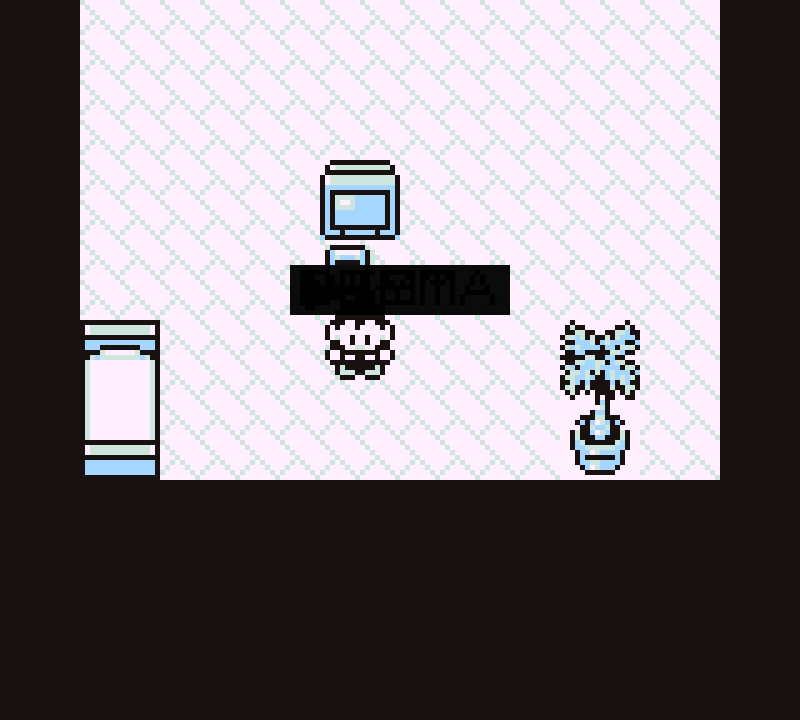
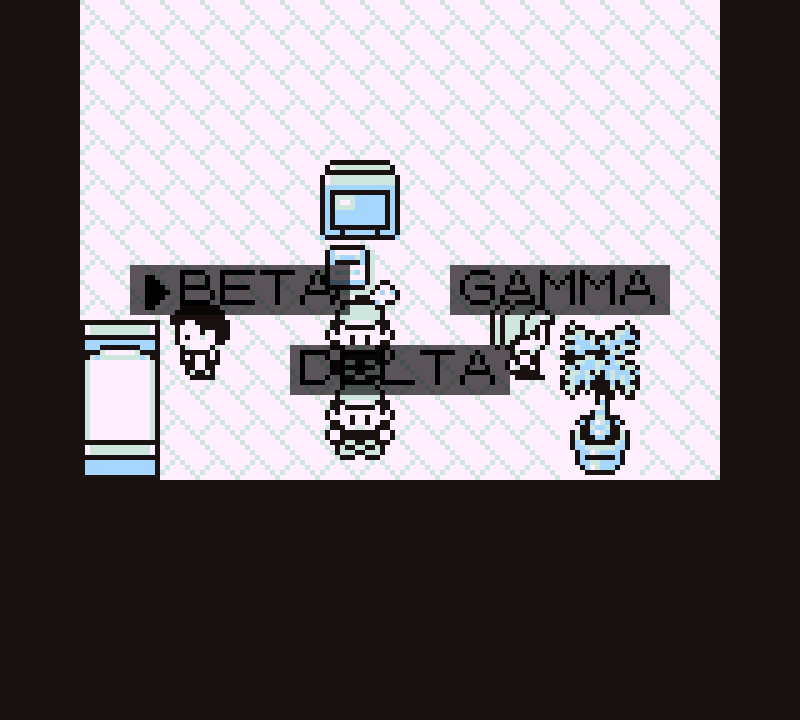
docs: bring the co-op README and its screenshots up to date
The README's RUN paragraph predated consent-run -- it now tells the split
truth (refused against trainers, partner-consent against another party, a
consented flee scored as the runners' loss) -- and two new paragraphs cover
the blackout on loss and the 60-second turn clock.

Both weak screenshots are recaptured, and the driver is fixed so they stay
good: party-ask.png used to be a box reading, in its entirety, "A" -- the
shot fired the instant the ask landed, a beat before the text crawl -- and
two-parties.png was one sprite under a black bar of four nameplates
z-fighting, because all four drivers spawn on the same tile and players walk
through each other now. The quad driver waits out the crawl before the
ask-box shot and spreads the four onto distinct tiles before the two-parties
shot; both pictures now show what their names promise.

Changed region(s): [[0.1562, 0.3667, 0.8438, 0.6417]]

diff --git a/README.md b/README.md
@@ -222,9 +222,13 @@ METRONOME calls, multi-hit hits, recoil recoils, BIDE stores.
 </p>
 
 All four commands are there — **FIGHT, ITEM, SWITCH, RUN** — with items going
-through the engine's own item effects. RUN and a thrown ball are *refused*, in
-the game's own words, because a co-op battle is always a trainer battle and
-Gen 1 lets you do neither in one.
+through the engine's own item effects. Against a trainer, RUN and a thrown
+ball are *refused*, in the game's own words, because Gen 1 lets you do
+neither in a trainer battle. Against another party, **RUN asks your partner
+first**: they get a yes/no box in the battle itself (it opens on NO, so a
+button held through the messages can't answer it), a no costs you nothing but
+the asking, and a yes ends the battle for all four — as the runners' loss and
+the opponents' win, so fleeing at match point buys nothing.
 
 **Exp is priced on each player's own machine.** The host resolves the knockout
 but holds nobody's party except its own, so what crosses the wire is a
@@ -263,6 +267,19 @@ rather than being handed a menu that answers nothing. A side only falls when
 <p align="center">
   <img src="docs/screenshots/party-spectating.png" width="300" alt="GAMMA's screen after their last POKeMON fell: their slot gone from the readout, their partner VENUSAUR still fighting">
 </p>
+
+**And losing sends you home, the way the game always did.** Every player
+whose party lost — or who walked out of any co-op battle with nothing left
+able to fight, even on the winning side — gets the whole vanilla ritual:
+party healed, money halved, and the warp to *their own* last POKéMON CENTER.
+Nobody is left standing in the tall grass at 0 HP, which also means a party
+with nothing able to fight is never wandering around to be challenged — and
+if one ever were, the battle refuses to start rather than starting broken.
+
+**And nobody can hold four people hostage.** Every turn has one 60-second
+clock, the same honest number on every screen, the host's own turn included.
+When it runs out the late player's first usable move is played for them —
+everyone is told who took too long — and the battle flows on.
 
 > One client simulates and the other three replay its events, so the host is
 > trusted the same way the engine's own link host already is.
